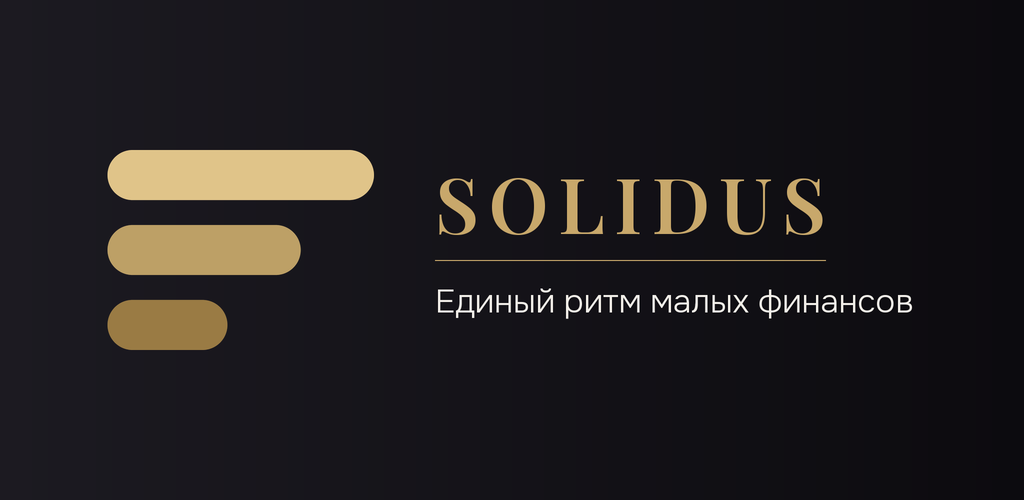
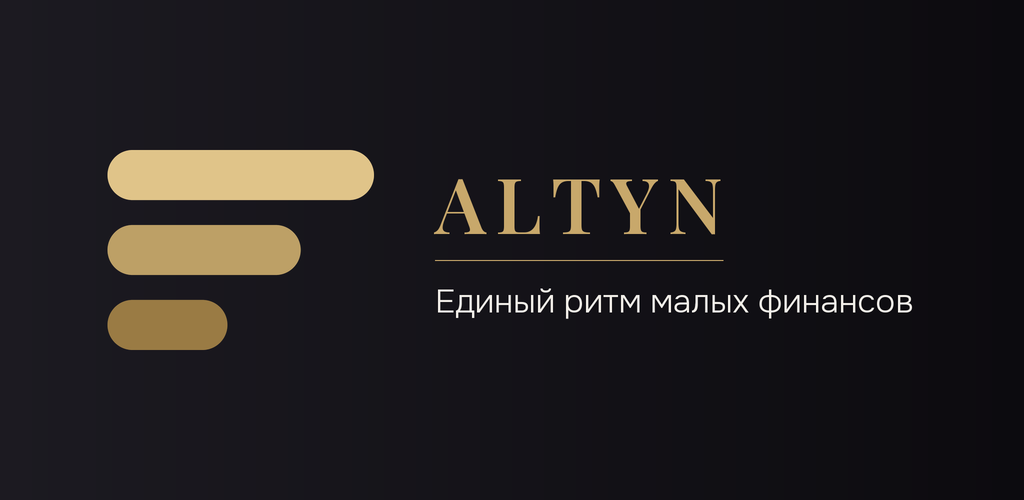
Rename the app from Solidus to Altyn
Everything a person sees: the app and widget labels, the browser tab
and installed-web-app name, the wordmark on the gate and household
screens, the release files (Altyn.apk / Altyn.aab), the privacy page,
the Play listing texts, and the regenerated feature graphic.

Deliberately left alone, because nobody sees them and changing them
breaks things: the worker's name and address (solidus-scan.*), which
the app is built against; the widget provider class names, which would
remove widgets already placed on home screens; the solidus/widget
channel and the X-Solidus-Worker header, both contracts with code
already deployed.

Claude-Session: https://claude.ai/code/session_01FGhFt6z7pbN8caMhjQJkXN

Changed region(s): [[0.4062, 0.36, 0.8125, 0.48]]

diff --git a/web/privacy.html b/web/privacy.html
@@ -3,7 +3,7 @@
 <head>
 <meta charset="UTF-8">
 <meta name="viewport" content="width=device-width, initial-scale=1">
-<title>Solidus — политика конфиденциальности</title>
+<title>Altyn — политика конфиденциальности</title>
 <style>
   :root { color-scheme: light dark; }
   html, body { margin: 0; padding: 0; background: #F6F2EA; color: #1B1813; }
@@ -36,11 +36,11 @@
 </head>
 <body>
 <main>
-  <p class="brand">Solidus</p>
+  <p class="brand">Altyn</p>
   <h1>Политика конфиденциальности</h1>
   <p class="updated">Редакция от 13 сентября 2026 года</p>
 
-  <p>Solidus — приложение для совместного учёта личных расходов и доходов.
+  <p>Altyn — приложение для совместного учёта личных расходов и доходов.
   Этот документ описывает, какие данные приложение обрабатывает, зачем и кому
   их передаёт. Коротко: рекламы нет, аналитики нет, данные не продаются и не
   передаются никому, кроме перечисленных ниже технических служб.</p>
@@ -129,7 +129,7 @@
   <a href="mailto:baboevazamatkz@gmail.com">baboevazamatkz@gmail.com</a></p>
 
   <footer>
-    Solidus · <a href="https://baboevazamatkz-create.github.io/Project/">приложение</a>
+    Altyn · <a href="https://baboevazamatkz-create.github.io/Project/">приложение</a>
     · <a href="https://github.com/baboevazamatkz-create/Project">исходный код</a>
   </footer>
 </main>

diff --git a/web/index.html b/web/index.html
@@ -23,12 +23,12 @@
   <meta name="mobile-web-app-capable" content="yes">
   <meta name="apple-mobile-web-app-capable" content="yes">
   <meta name="apple-mobile-web-app-status-bar-style" content="default">
-  <meta name="apple-mobile-web-app-title" content="Solidus">
+  <meta name="apple-mobile-web-app-title" content="Altyn">
   <link rel="apple-touch-icon" href="icons/apple-touch-icon-180.png">
 
   <link rel="icon" type="image/png" href="favicon.png"/>
 
-  <title>Solidus</title>
+  <title>Altyn</title>
   <link rel="manifest" href="manifest.json">
 
   <style>

diff --git a/test/widget_test.dart b/test/widget_test.dart
@@ -121,7 +121,7 @@ void main() {
         home: HouseholdScreen(canCancel: canCancel, onReady: (_) {}),
       ));
       await tester.pumpAndSettle();
-      expect(find.text('SOLIDUS'), findsOneWidget,
+      expect(find.text('ALTYN'), findsOneWidget,
           reason: 'wordmark missing with canCancel: $canCancel');
       expect(find.text('Единый ритм\nмалых финансов'), findsOneWidget,
           reason: 'tagline missing with canCancel: $canCancel');

diff --git a/lib/screens/household_screen.dart b/lib/screens/household_screen.dart
@@ -218,7 +218,7 @@ class _HouseholdScreenState extends State<HouseholdScreen> {
                         child: FittedBox(
                           fit: BoxFit.scaleDown,
                           child: Text(
-                            'SOLIDUS',
+                            'ALTYN',
                             style: wordmark(
                               context,
                               size: 12 * _kWordmarkScale,

diff --git a/lib/main.dart b/lib/main.dart
@@ -29,7 +29,7 @@ class ExpenseTrackerApp extends StatelessWidget {
     return ValueListenableBuilder<ThemeMode>(
       valueListenable: ThemeModeController.mode,
       builder: (context, themeMode, _) => MaterialApp(
-        title: 'Solidus',
+        title: 'Altyn',
         debugShowCheckedModeBanner: false,
         locale: const Locale('ru'),
         supportedLocales: const [Locale('ru'), Locale('en')],

diff --git a/lib/app_gate.dart b/lib/app_gate.dart
@@ -104,7 +104,7 @@ class _AppGateState extends State<AppGate> {
               mainAxisSize: MainAxisSize.min,
               children: [
                 Text(
-                  'SOLIDUS',
+                  'ALTYN',
                   style: wordmark(
                     context,
                     size: 15,

diff --git a/tool/generate_store_graphics.py b/tool/generate_store_graphics.py
@@ -105,7 +105,7 @@ def write_feature():
     name_font = ImageFont.truetype(PLAYFAIR, name_size)
     tracking = name_size * 0.12
     name_y = int(h * 0.30)
-    end_x = _tracked(draw, (text_x, name_y), 'SOLIDUS', name_font,
+    end_x = _tracked(draw, (text_x, name_y), 'ALTYN', name_font,
                      CHAMPAGNE, tracking)
 
     rule_y = name_y + int(name_size * 1.42)

diff --git a/store/README.md b/store/README.md
@@ -1,6 +1,6 @@
 # Публикация в Google Play
 
-Всё, что нужно для выхода Solidus в Play, и порядок, в котором это делается.
+Всё, что нужно для выхода Altyn в Play, и порядок, в котором это делается.
 Со стороны кода готово всё; шаги, которые может сделать только человек с
 доступом к аккаунту, отмечены **ВЫ**.
 
@@ -44,7 +44,7 @@ play.google.com/store/apps/details?id=com.baboevazamatkz.expense_tracker
 
 То есть ваш логин будет в публичном адресе — ровно то, от чего вы хотели
 уйти в адресе сайта. Сменить его можно **только сейчас**, до первой
-загрузки. Скажем, на `kz.solidus.app`.
+загрузки. Скажем, на `kz.altyn.app`.
 
 Это не одна строка: идентификатор прошит в `google-services.json`, поэтому
 в консоли Firebase придётся добавить новое Android-приложение с новым
@@ -78,7 +78,7 @@ https://play.google.com/console/signup — 25 долларов, разово.
 
 **Все приложения → Создать приложение.**
 
-- Название: `Solidus — общий бюджет`
+- Название: `Altyn — общий бюджет`
 - Язык по умолчанию: русский
 - Тип: приложение
 - Бесплатное
@@ -101,7 +101,7 @@ https://play.google.com/console/signup — 25 долларов, разово.
 
 ## 4. Собрать бандл
 
-Уже собирается на каждый push в `main`. Свежий файл — `Solidus.aab` в
+Уже собирается на каждый push в `main`. Свежий файл — `Altyn.aab` в
 последнем релизе:
 
 https://github.com/baboevazamatkz-create/Project/releases/latest
@@ -124,7 +124,7 @@ flutter build appbundle --release \
 
 **Тестирование → Закрытое тестирование → Создать выпуск.**
 
-Загрузите `Solidus.aab`, в «Что нового» вставьте текст из `listing-ru.md`.
+Загрузите `Altyn.aab`, в «Что нового» вставьте текст из `listing-ru.md`.
 Добавьте список тестировщиков по адресам почты и разошлите им ссылку.
 
 Проверьте на настоящем телефоне до того, как отправлять на проверку:
@@ -167,7 +167,7 @@ flutter build appbundle --release \
 
 ## Дальше
 
-Каждый push в `main` кладёт новый `Solidus.aab` в релиз с новым кодом
+Каждый push в `main` кладёт новый `Altyn.aab` в релиз с новым кодом
 версии. Обновление в Play — это загрузить его в выпуск и написать, что
 изменилось. Номер версии (`1.0.0`) живёт в `pubspec.yaml` и меняется
 руками, когда есть о чём сказать.

diff --git a/store/closed-testing.md b/store/closed-testing.md
@@ -37,8 +37,8 @@
 и убирать, не трогая настройки в Play Console.
 
 1. https://groups.google.com → **Создать группу**
-2. Название: `Solidus тестировщики`, адрес, скажем,
-   `solidus-testers@googlegroups.com`
+2. Название: `Altyn тестировщики`, адрес, скажем,
+   `altyn-testers@googlegroups.com`
 3. В настройках доступа разрешите себе добавлять участников напрямую
 4. Добавьте адреса — это должны быть **те самые аккаунты Google, под
    которыми люди заходят в Play Store на своих телефонах**. Рабочая почта,
@@ -61,7 +61,7 @@
 
 1. Открывает ссылку **на телефоне**, в браузере
 2. Нажимает **«Стать тестировщиком»** (Become a tester)
-3. По появившейся ссылке переходит в Play Store и устанавливает Solidus
+3. По появившейся ссылке переходит в Play Store и устанавливает Altyn
 4. Дальше приложение обновляется само, как любое из Play
 
 Ссылка начинает работать не мгновенно — после публикации выпуска в
@@ -76,7 +76,7 @@
 нужно 12 человек, которые подпишутся на тест и подержат его на телефоне
 две недели. Работы минут на пять.
 
-Solidus — это общий бюджет на двоих: расходы и доходы видны обоим
+Altyn — это общий бюджет на двоих: расходы и доходы видны обоим
 сразу, есть сканер чеков, который распознаёт суммы с фотографии.
 
 Что нужно сделать:

diff --git a/store/data-safety.md b/store/data-safety.md
@@ -98,7 +98,7 @@ https://baboevazamatkz-create.github.io/Project/privacy.html
 ни логина, ни пароля, ни кода доступа для проверяющего не нужно.
 
 **Финансовые функции**: *приложение не предоставляет финансовых функций.*
-Это важно отметить правильно: Solidus ведёт учёт, но не выдаёт займов, не
+Это важно отметить правильно: Altyn ведёт учёт, но не выдаёт займов, не
 проводит платежей, не работает с криптовалютой, не даёт инвестиционных
 советов и не подключается к банковским счетам. Любой другой ответ включает
 требование прислать лицензии.

diff --git a/README.md b/README.md
@@ -1,4 +1,4 @@
-# Solidus
+# Altyn
 
 Совместный учёт расходов и доходов: общий бюджет на несколько человек,
 Android и веб из одного кода.
@@ -44,7 +44,7 @@ flutter run --dart-define=SCAN_ENDPOINT=https://solidus-scan.<имя>.workers.de
 
 - **APK** — GitHub Actions на каждый push в `main`. Постоянная ссылка на
   последнюю сборку:
-  https://github.com/baboevazamatkz-create/Project/releases/latest/download/Solidus.apk
+  https://github.com/baboevazamatkz-create/Project/releases/latest/download/Altyn.apk
 - **Веб** — GitHub Pages, публикуется тем же push:
   https://baboevazamatkz-create.github.io/Project/
 
